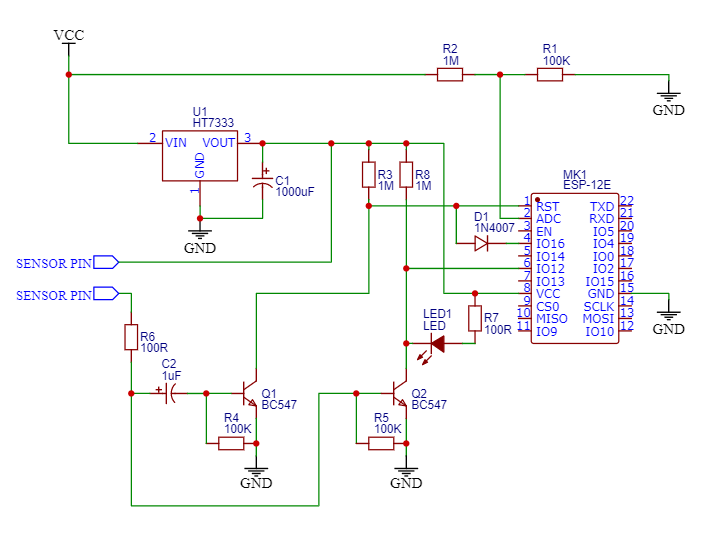
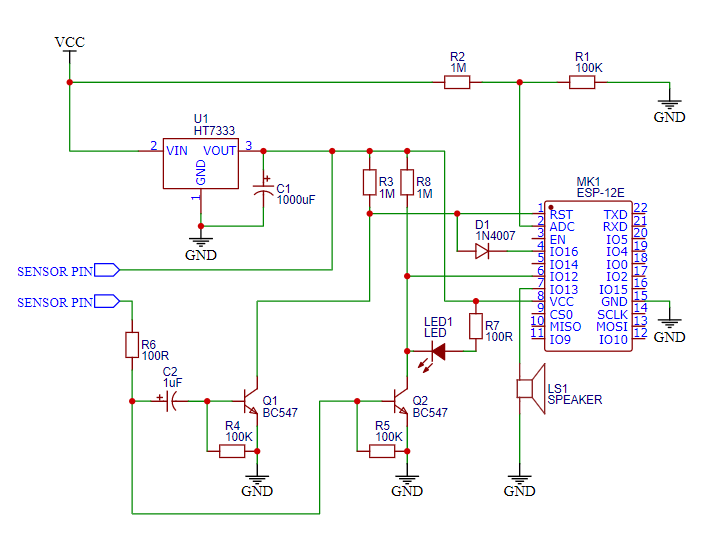
Update readme and circuit diagram

Changed region(s): [[0.0, 0.0307, 0.9633, 0.953], [0.7147, 0.83, 0.7768, 0.8915]]

diff --git a/README.md b/README.md
@@ -15,7 +15,7 @@ notification in case the energy drops below a critical threshold.
 
 ![](circuit_diagram/image.png)
 
-The circuit was designed to run on a 9V battery, but it can accept any voltage between
+The circuit was designed to run on a 3.7V Li-Ion battery, but it can accept any voltage between
 3.5 - 12 volts. Just don't forget to adjust the `CRITICAL_VOLTAGE` in the
 [sketch](./water_leak_sensor.ino) accordingly.
 
@@ -58,9 +58,6 @@ am using the maximum reliable deep sleep interval of 3 hours.
 Current draw of the board and supplemental circuit in the deep sleep mode is about 30uA.
 When the board awakes and is not connected to WiFi (i.e. is only checking the voltage), then
 it draws around 70 mA for about 2 seconds.
-
-One standard 9V battery with a capacity of 500mAh should be in theory able to power the
-circuit for more than a year.
 
 ## The Finished Product
 
